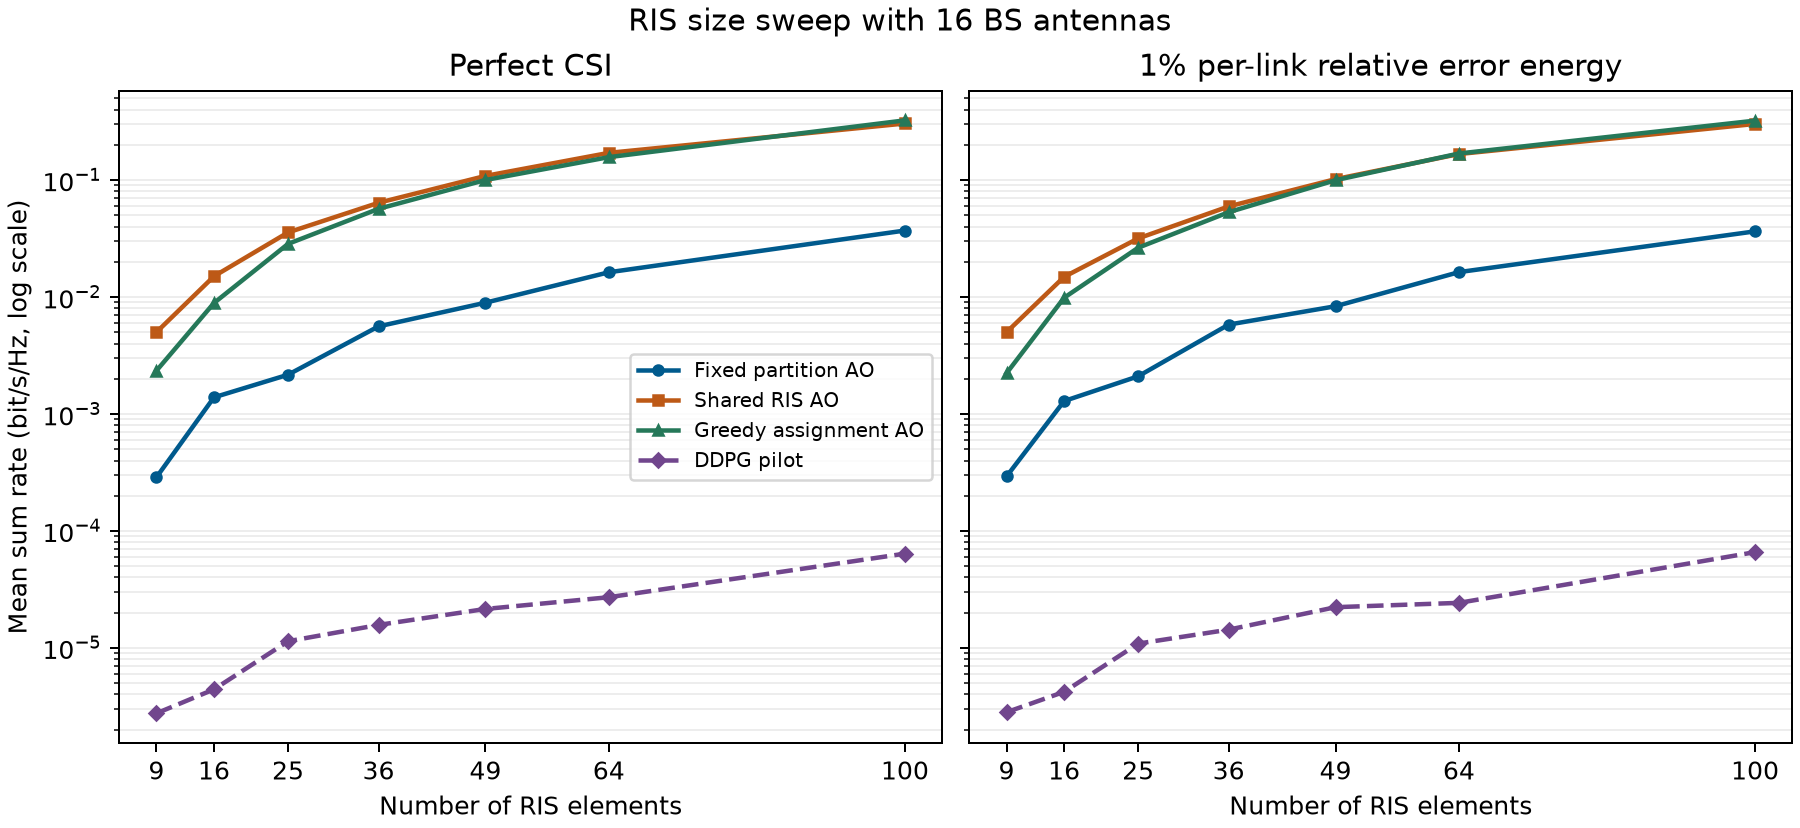
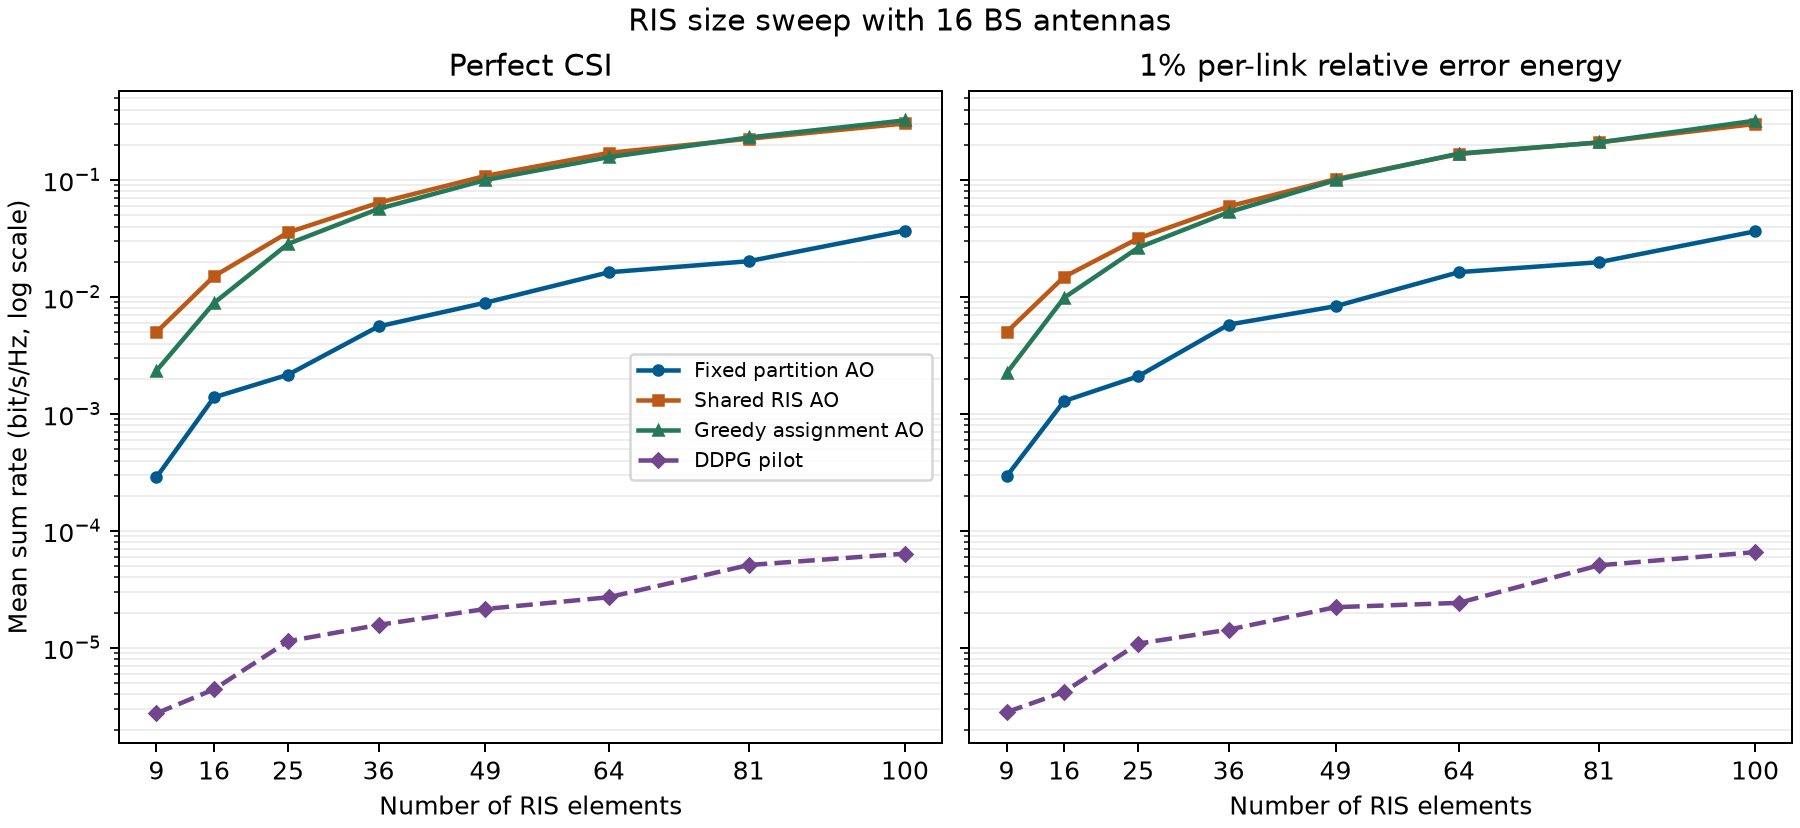
Complete Figure 2(c) grid and document submission reruns

diff --git a/ris_size_sweep.py b/ris_size_sweep.py
@@ -9,7 +9,7 @@ from compare_policies import validate_experiment_arguments
 from isac_environment import Config
 
 
-RIS_SIDES = (3, 4, 5, 6, 7, 8, 10)
+RIS_SIDES = (3, 4, 5, 6, 7, 8, 9, 10)
 
 
 def main():

diff --git a/README.md b/README.md
@@ -12,6 +12,21 @@ The base station sends communication and sensing streams through the same wirele
 4. **Evaluate and learn.** User SINR accounts for interference from other streams. The receiver rate is log2(1 + SINR). Sensing performance is target illumination in watts, with direct and reflected amplitudes combined before squaring. The training reward adds the user rates and subtracts penalties for shortfalls. The critic estimates that reward and guides the actor.
 5. **Compare methods.** On the same simulated channels, report both mean sum rate and the fraction of draws where every user and target meets its threshold. The fixed and shared RIS baselines isolate the effect of allocation and give the learned policy a conventional comparison.
 
+## Reproduce the submission figures
+
+Run these commands from the repository root after installing the packages in `requirements.txt`.
+
+```powershell
+python -m pip install -r requirements.txt
+python channel_audit/check_link_budget.py
+python reference_convergence.py
+python antenna_sweep.py
+python ris_size_sweep.py
+python partition_visualization.py
+```
+
+The main figure scripts write their PNGs in the current directory by default. The separate controlled learning and channel-estimation studies run with `python ddpg_sanity.py` and `python imperfect_csi.py`. See the validation summary at the end for the claims supported by each figure.
+
 ## Run
 
 From this folder, install the packages in `requirements.txt` if needed and run:
@@ -317,7 +332,7 @@ The two plotted DDPG layouts allocate 24 / 12 / 12 / 16 and 36 / 6 / 6 / 16 cell
 python ris_size_sweep.py
 ```
 
-Hold the BS at 16 antennas with six CUs, three CU groups, and three sensing targets. Sweep square RIS surfaces with 9, 16, 25, 36, 49, 64, and 100 elements. Each point uses 100 held-out draws from seed 100000. Node positions, path gains, and path angles are paired across sizes. The smaller RIS uses the same coefficients as the overlapping rows and columns of the 10 by 10 surface. The relative-error test also pairs the standard complex Gaussian samples at overlapping RIS coordinates, then applies the RMS scaling for each link at its current size.
+Hold the BS at 16 antennas with six CUs, three CU groups, and three sensing targets. Sweep square RIS surfaces with 9, 16, 25, 36, 49, 64, 81, and 100 elements. Each point uses 100 held-out draws from seed 100000. Node positions, path gains, and path angles are paired across sizes. The smaller RIS uses the same coefficients as the overlapping rows and columns of the 10 by 10 surface. The relative-error test also pairs the standard complex Gaussian samples at overlapping RIS coordinates, then applies the RMS scaling for each link at its current size.
 
 Use the same six-round AO baselines and DDPG pilot settings as the antenna sweep. Train one actor per antenna/RIS configuration and seed for 320 steps, using three seeds and the faster training settings from Step 4. Evaluate the fixed, shared, and greedy AO methods and the trained DDPG pilot under perfect CSI and 1% per-link relative error energy. Score both conditions on the true channels. This matched sweep replaces the earlier pilot as the main Fig. 2(c)-style comparison in this project. The earlier heuristic plot remains available for the initial implementation record.
 
@@ -334,6 +349,7 @@ Mean sum rate in bit/s/Hz
 | 36 | 0.0056096 | 0.063938 | 0.05679 | 1.5702e-05 |
 | 49 | 0.0089435 | 0.10858 | 0.10014 | 2.1505e-05 |
 | 64 | 0.016281 | 0.17095 | 0.1571 | 2.7096e-05 |
+| 81 | 0.020234 | 0.22556 | 0.23147 | 5.1058e-05 |
 | 100 | 0.037038 | 0.3048 | 0.32417 | 6.3907e-05 |
 
 ### 1% per-link relative error energy
@@ -346,9 +362,10 @@ Mean sum rate in bit/s/Hz
 | 36 | 0.0058109 | 0.059512 | 0.053118 | 1.4303e-05 |
 | 49 | 0.0083429 | 0.10195 | 0.099803 | 2.2273e-05 |
 | 64 | 0.01633 | 0.16703 | 0.16878 | 2.4248e-05 |
+| 81 | 0.019844 | 0.21005 | 0.20969 | 5.0739e-05 |
 | 100 | 0.036444 | 0.30208 | 0.32245 | 6.5827e-05 |
 
-Mean sum rate increased at every size for all four methods in both conditions. Greedy AO led at 100 elements with perfect CSI and at 64 and 100 elements with relative error. Shared AO led at the other sizes. The DDPG pilot remained well below the AO methods, and every method had 0% all-user, all-target, and joint threshold pass. The upward size trend appeared in our model, while the rates and method ranking in Fig. 2(c) remain open. [Matched RIS-size plot](ris_size_sweep.png)
+Mean sum rate increased at every size for all four methods in both conditions. Greedy AO led at 81 and 100 elements with perfect CSI and at 64 and 100 elements with relative error. Shared AO led at the other sizes. The DDPG pilot remained well below the AO methods, and every method had 0% all-user, all-target, and joint threshold pass. The upward size trend appeared in our model, while the rates and method ranking in Fig. 2(c) remain open. [Matched RIS-size plot](ris_size_sweep.png)
 
 Checks confirmed that the true channels and estimation samples match at overlapping RIS coordinates. The 36-element perfect-CSI row reproduced the shared point in the antenna sweep, and regression runs confirmed the existing antenna and CSI scripts preserve their results.
 
@@ -366,7 +383,7 @@ All panels refer to Fig. 2 in Wei et al. [Paper](https://doi.org/10.1109/LWC.202
 | --- | --- | --- |
 | 2(a), convergence | DDPG average reward rises and stabilizes on the simulated mmWave channel. | Reference-channel reward remains near -30 over our training budget. On the separate known-feasible channel the faster-setting DDPG reached 75% joint pass across three seeds, with variation across seeds. |
 | 2(b), BS antenna count | Sum rate rises with antenna count and the proposed method leads the compared baselines. | All three AO rates rise at every tested count under both CSI conditions. Shared RIS AO leads in our experiment and the short DDPG pilot has no consistent upward trend. [Plot](antenna_sweep.png) |
-| 2(c), RIS size | Sum rate rises with RIS size and the proposed method leads. | Mean sum rate rises at every size for all four tested methods. Shared AO leads most points and greedy AO leads at 100 elements with perfect CSI and at 64 and 100 elements with relative error. [Plot](ris_size_sweep.png) |
+| 2(c), RIS size | Sum rate rises with RIS size and the proposed method leads. | Mean sum rate rises at every size for all four tested methods. Shared AO leads most points and greedy AO leads at 81 and 100 elements with perfect CSI and at 64 and 100 elements with relative error. [Plot](ris_size_sweep.png) |
 | 2(d), RIS partition | One example shows distinct, non-overlapping rectangular allocations. | One trained actor produced 46 distinct labeled rectangular layouts on 100 draws and used 7 to 28 sensing cells. No draw met every target requirement. [Maps](partition_visualization.png) |
 
 Cross-checks confirmed identical perfect-CSI AO values in the paired policy and noisy-CSI experiments, identical perfect-CSI rates at the shared 16-antenna and 36-element point of the two sweeps, and the same perfect-CSI greedy rate at 64 elements in the RIS-size and partition-map experiments.
